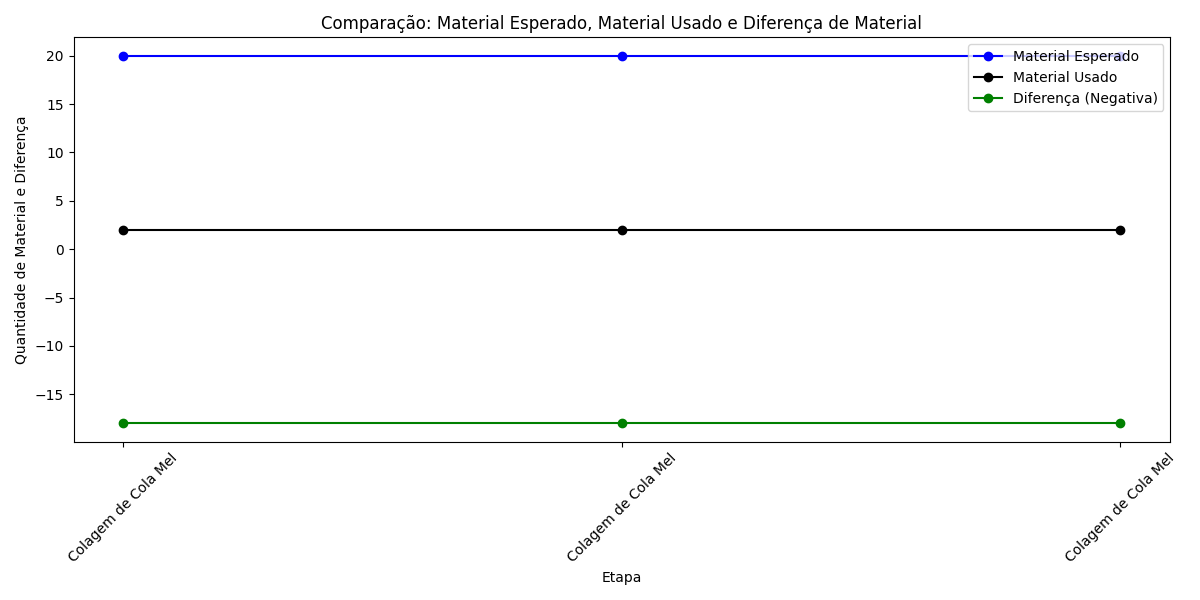
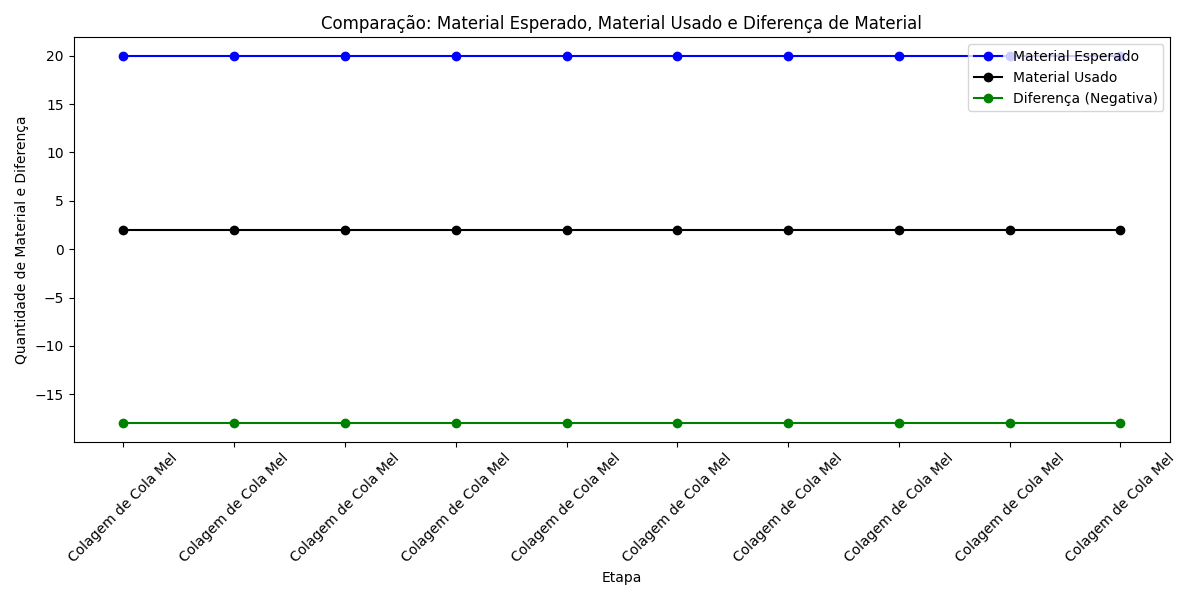
corrigindo simulacao

diff --git a/eficiencia_tempo.py b/eficiencia_tempo.py
@@ -49,6 +49,7 @@ def gerar_pdf_tempo(dados, caminho_pdf):
 
 # Definindo os parâmetros de tempo esperado para cada tarefa em minutos
 TABELA_TEMPO_ESPERADO = {
+    "de construção do relatório": 60,
     "Pintura Eletrostática": 72,          # 1.2 horas * 60 = 72 minutos
     "Colagem de Cola Mel": 12,            # 0.2 horas * 60 = 12 minutos
     "Corte de Isopor": 19.8,              # 0.33 horas * 60 ≈ 19.8 minutos
@@ -164,9 +165,9 @@ def calcular_tempo_gasto_tempo(horario_inicio, horario_fim):
         print(f"Erro ao calcular o tempo gasto: {e}")
         return 0  # Retorna 0 se houver erro
 
-def gerar_relatorio_eficiencia_tempo():
+def gerar_relatorio_eficiencia_tempo(caminho_csv):
     """Gera o relatório de eficiência e chama a função para gerar o PDF e salvar em CSV."""
-    caminho_csv = "data/relatorios/relatorio_2025-02-24.csv"
+    caminho_csv = caminho_csv
     PDF_FILE = "data/relatorios/relatorio_eficiencia.pdf"
     CSV_FILE = "data/relatorios/relatorio_eficiencia_tempo.csv"  # Novo caminho para o CSV
 
@@ -183,4 +184,5 @@ def gerar_relatorio_eficiencia_tempo():
         print("⚠ Nenhum dado disponível para gerar o relatório de eficiência.")
 
 if __name__ == "__main__":
-    gerar_relatorio_eficiencia_tempo()
+    caminho_csv = "data/relatorios/relatorio_2025-02-24.csv"
+    gerar_relatorio_eficiencia_tempo(caminho_csv)

diff --git a/eficiencia_material.py b/eficiencia_material.py
@@ -149,7 +149,7 @@ def salvar_csv_material(resultados, caminho_csv):
     except Exception as e:
         print(f"❌ Erro ao salvar o arquivo CSV: {e}")
 
-def gerar_relatorio_eficiencia_material():
+def gerar_relatorio_eficiencia_material(caminho_csv):
     """
     Gera o relatório de eficiência de material:
       - Lê o CSV com as colunas: Horário de Início, Tarefa, Nome do Cliente, Horário de Fim, Material Gasto.
@@ -157,7 +157,7 @@ def gerar_relatorio_eficiencia_material():
         comparando o valor extraído com o valor esperado (da tabela de referência).
       - Gera um relatório (em PDF e CSV) com os resultados.
     """
-    caminho_csv = "data/relatorios/relatorio_2025-02-24.csv"  
+      
     PDF_FILE = "data/relatorios/relatorio_eficiencia_material.pdf"
     CSV_FILE = "data/relatorios/relatorio_eficiencia_material.csv"
 
@@ -174,4 +174,6 @@ def gerar_relatorio_eficiencia_material():
         print("⚠ Nenhum dado disponível para gerar o relatório de eficiência de material.")
 
 if __name__ == "__main__":
-    gerar_relatorio_eficiencia_material()
+    caminho_csv = "data/relatorios/relatorio_2025-02-24.csv" 
+
+    gerar_relatorio_eficiencia_material(caminho_csv)

diff --git a/main.py b/main.py
@@ -102,7 +102,7 @@ def main():
             print("⚠ Nenhum dado disponível para gerar o relatório completo.")
         
         # Geração do relatório de eficiência de tempo
-        relatorios_tempo = gerar_relatorio_eficiencia_tempo()
+        relatorios_tempo = gerar_relatorio_eficiencia_tempo(csv_principal)
         csv_eficiencia_tempo = "data/relatorios/relatorio_eficiencia_tempo.csv"
         if relatorios_tempo:
             salvar_csv_tempo(relatorios_tempo, csv_eficiencia_tempo)
@@ -110,8 +110,10 @@ def main():
         else:
             print("⚠ Nenhum dado disponível para gerar o relatório de eficiência de tempo.")
         
+
+        
         # Geração do relatório de eficiência de material
-        relatorios_material = gerar_relatorio_eficiencia_material()
+        relatorios_material = gerar_relatorio_eficiencia_material(csv_principal)
         csv_eficiencia_material = "data/relatorios/relatorio_eficiencia_material.csv"
         if relatorios_material:
             salvar_csv_material(relatorios_material, csv_eficiencia_material)

diff --git a/transcrever_audio.py b/transcrever_audio.py
@@ -13,8 +13,8 @@ def transcrever_audio(audio_ogg):
         print(f"Arquivo {audio_ogg} não encontrado!")
         return
     
-    # Converter OGG para WAV usando FFmpeg
-    subprocess.run(["ffmpeg", "-i", audio_ogg, "-ar", "16000", "-ac", "1", "-c:a", "pcm_s16le", audio_wav], check=True)
+    # Converter OGG para WAV usando FFmpeg e sobrescrever automaticamente, se necessário
+    subprocess.run(["ffmpeg", "-y", "-i", audio_ogg, "-ar", "16000", "-ac", "1", "-c:a", "pcm_s16le", audio_wav], check=True)
     
     if not os.path.exists(audio_wav):
         print(f"Erro na conversão! Arquivo {audio_wav} não foi gerado.")
